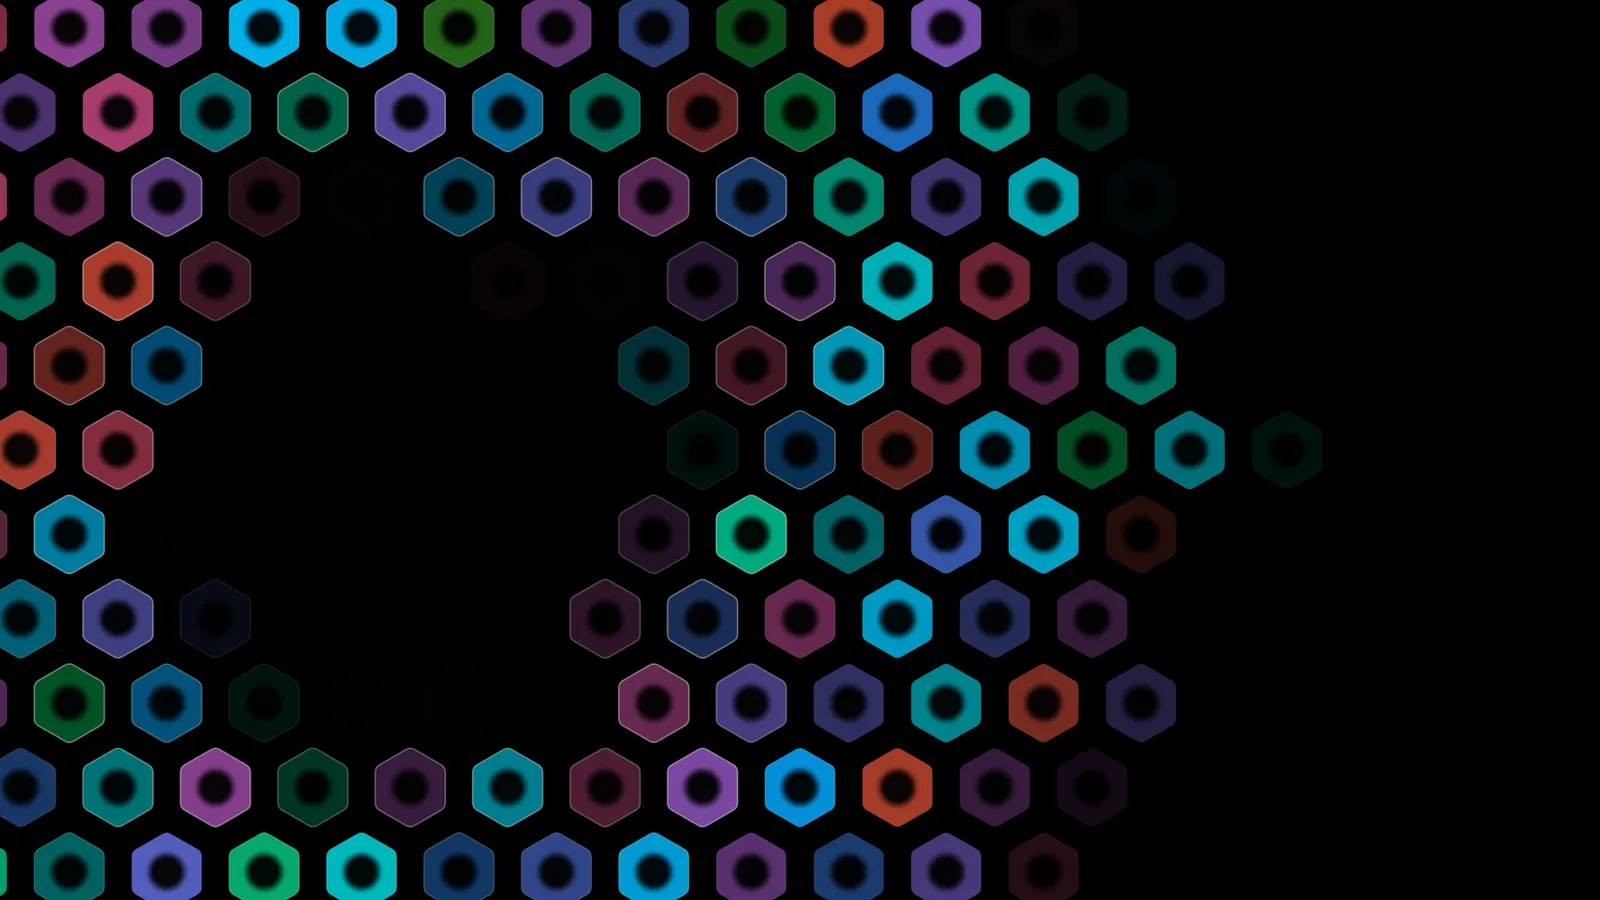
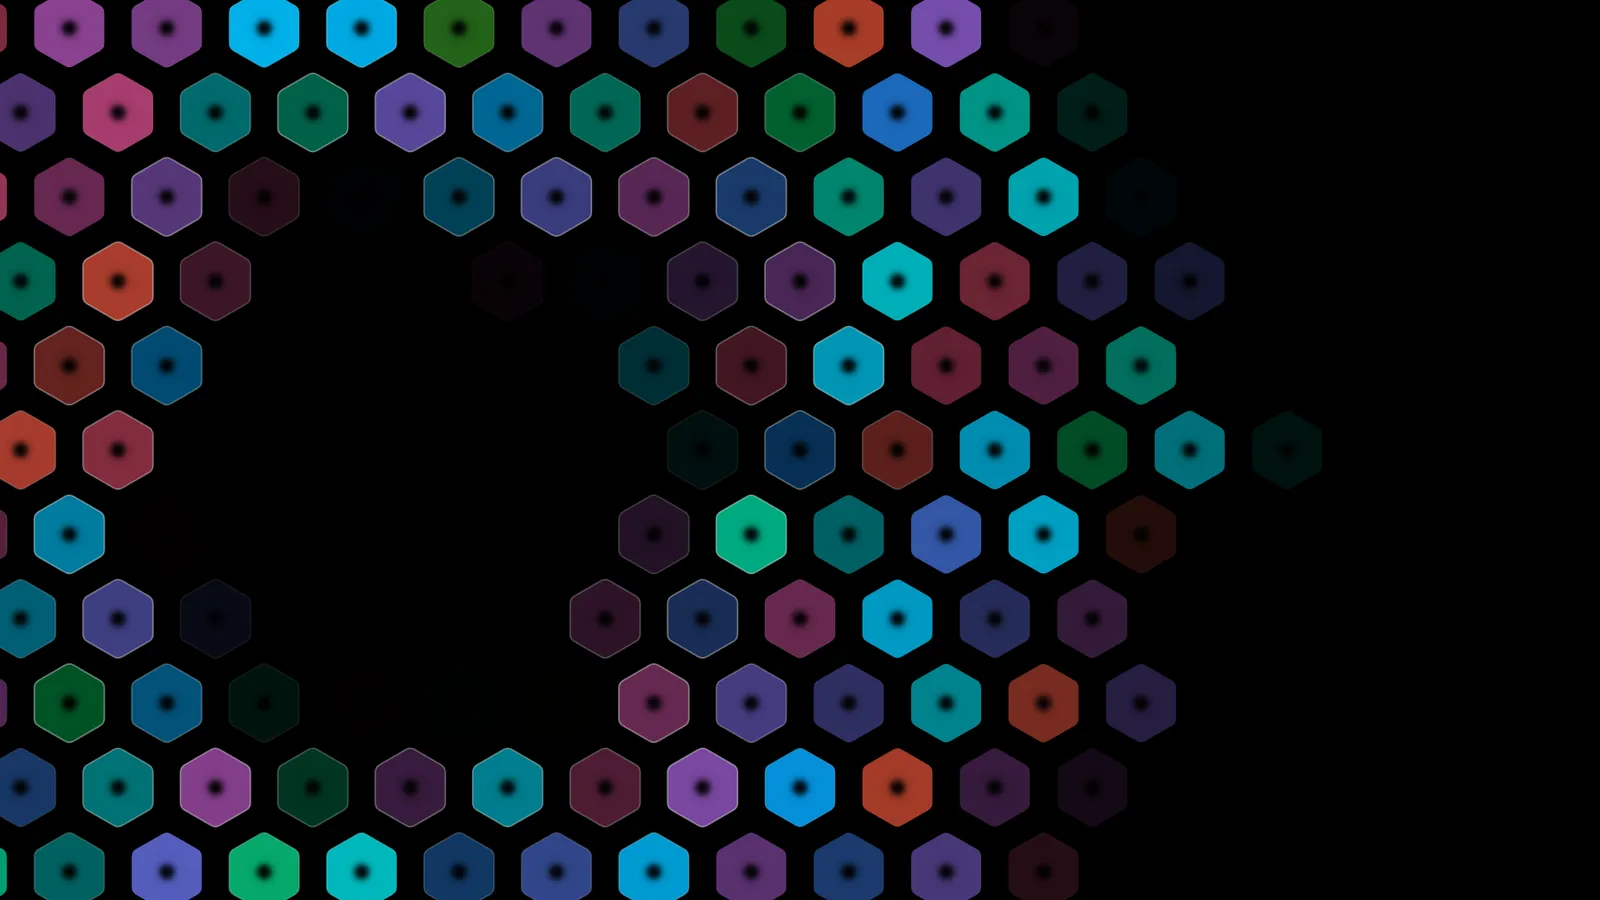
feat(hexgrid): smaller holes, with a size, width and S-curve shape
Andrei's third round: smaller centres in each hex, and a gradient that is
an S-curve rather than a linear ramp. hole is now the half-dark radius and
soft the width of the fall, so both slots are retired and re-appended;
curve chooses logistic, smoothstep or linear.

diff --git a/src/experiments/hexgrid/settings.ts b/src/experiments/hexgrid/settings.ts
@@ -23,6 +23,7 @@ export type Layout = "tiled" | "scattered" | "random"
 export type Pattern = "random" | "triad"
 export type Gamut = "lightness" | "chroma"
 export type FadeBy = "wave" | "together"
+export type Curve = "s" | "eased" | "linear"
 
 export type Settings = {
   /** Tiled: a dark centre in every seven, each ringed by six petals. Scattered: a few centres, spaced. */
@@ -51,10 +52,12 @@ export type Settings = {
   chroma: number
   /** How dark a hex's middle is against its edge. 0 is flat, 1 black. */
   core: number
-  /** Radius of the dark hole in each hex, as a share of the hex's inner radius. */
+  /** Radius at which each hex's dark hole is half dark, as a share of the hex's inner radius. */
   hole: number
-  /** How far the hole takes to give way to colour, as a share of the inner radius. */
+  /** Width of the hole's fall from dark to colour, as a share of the inner radius. */
   soft: number
+  /** Shape of that fall: an S-curve, smoothstep, or a straight ramp. */
+  curve: Curve
   /** How round the corners are: 0 sharp, 1 as round as the sides allow. */
   round: number
   /** OKLCH lightness of the dark centres. */
@@ -88,7 +91,7 @@ export type Settings = {
   seed: number
 }
 
-export type NumericKey = Exclude<keyof Settings, "layout" | "pattern" | "gamut" | "fadeBy">
+export type NumericKey = Exclude<keyof Settings, "layout" | "pattern" | "gamut" | "fadeBy" | "curve">
 
 export type Control = KitControl<string & keyof Settings>
 export type NumericControl = SliderControl<NumericKey>
@@ -97,6 +100,7 @@ export const LAYOUTS: Layout[] = ["tiled", "scattered", "random"]
 export const PATTERNS: Pattern[] = ["random", "triad"]
 export const GAMUTS: Gamut[] = ["lightness", "chroma"]
 export const FADE_BYS: FadeBy[] = ["wave", "together"]
+export const CURVES: Curve[] = ["s", "eased", "linear"]
 
 const SEED_BOUNDS = { min: 0, max: 999_999 }
 
@@ -288,13 +292,13 @@ export const CONTROLS: Control[] = [
   {
     kind: "slider",
     key: "hole",
-    label: "hole",
+    label: "hole size",
     group: "colour",
-    min: 0.05,
+    min: 0,
     max: 0.9,
     step: 0.01,
     format: unit,
-    hint: "How wide the dark middle of each hex is, as a share of the hex. Small is a pinhole the colour pours into; large leaves only a bright rim.",
+    hint: "How wide the dark middle of each hex is: the radius where it is half dark, as a share of the hex. Small is a pinhole the colour pours into; large leaves only a bright rim.",
     inert: (settings: Settings) => settings.core === 0,
   },
   {
@@ -302,17 +306,30 @@ export const CONTROLS: Control[] = [
     key: "soft",
     label: "softness",
     group: "colour",
-    min: 0.02,
-    max: 1,
+    min: 0.01,
+    max: 1.5,
     step: 0.01,
     format: unit,
-    hint: "How long the dark middle takes to give way to colour. Low is a sharp-edged hole; high is a long glow.",
+    hint: "How wide the fall from dark to colour is, as a share of the hex. Low is a sharp-edged hole; high is a long glow.",
+    inert: (settings: Settings) => settings.core === 0,
+  },
+  {
+    kind: "choice",
+    key: "curve",
+    label: "gradient",
+    group: "colour",
+    options: [
+      { value: "s", label: "s-curve" },
+      { value: "eased", label: "eased" },
+      { value: "linear", label: "linear" },
+    ],
+    hint: "The shape of the fall from dark to colour. S-curve holds the middle dark, drops quickly, and trails off into the colour. Eased is smoothstep: steeper through the middle than the S-curve and with no tail, so its edge reads crisper. Linear is a straight ramp, a plain radial gradient.",
     inert: (settings: Settings) => settings.core === 0,
   },
   {
     kind: "slider",
     key: "centre",
-    label: "centres",
+    label: "black hexes",
     group: "colour",
     min: 0,
     max: 0.5,
@@ -458,8 +475,9 @@ export const DEFAULT_SETTINGS: Settings = {
   lightness: 0.62,
   chroma: 0.2,
   core: 0.95,
-  hole: 0.35,
-  soft: 0.3,
+  hole: 0.2,
+  soft: 0.25,
+  curve: "s",
   round: 0.25,
   centre: 0.08,
   edge: 0.1,
@@ -492,8 +510,8 @@ export const TRACKS: Partial<Record<NumericKey, Track>> = {
   lightness: { min: 0.2, max: 0.95, step: 0.01 },
   chroma: { min: 0, max: 0.37, step: 0.005 },
   core: { min: 0, max: 1, step: 0.05 },
-  hole: { min: 0.05, max: 0.9, step: 0.01 },
-  soft: { min: 0.02, max: 1, step: 0.01 },
+  hole: { min: 0, max: 0.9, step: 0.01 },
+  soft: { min: 0.01, max: 1.5, step: 0.01 },
   round: { min: 0, max: 1, step: 0.05 },
   ragged: { min: 0, max: 1, step: 0.05 },
   trail: { min: 0, max: 5, step: 0.05 },
@@ -539,6 +557,7 @@ export function normalizeSettings(patch: Partial<Settings>, base: Settings = DEF
     pattern: oneOf(PATTERNS, merged.pattern, base.pattern),
     gamut: oneOf(GAMUTS, merged.gamut, base.gamut),
     fadeBy: oneOf(FADE_BYS, merged.fadeBy, base.fadeBy),
+    curve: oneOf(CURVES, merged.curve, base.curve),
   }
 
   for (const [key, bound] of Object.entries(BOUNDS) as [NumericKey, { min: number; max: number }][]) {
@@ -568,6 +587,7 @@ const GRID_KEYS = [
   "core",
   "hole",
   "soft",
+  "curve",
   "ragged",
   "seed",
 ] as const satisfies readonly (keyof Settings)[]
@@ -605,12 +625,17 @@ export const REGISTRY: readonly Slot[] = [
   { key: "density", kind: "num", grid: 0.1, origin: 0.1, bits: 8 },
   { key: "wander", kind: "num", grid: 1, origin: 0, bits: 8 },
   { key: "fadeBy", kind: "enum", options: ["wave", "together"] },
-  { key: "hole", kind: "num", grid: 0.01, origin: 0.05, bits: 7 },
-  { key: "soft", kind: "num", grid: 0.01, origin: 0.02, bits: 7 },
+  // Retired 2026-10-11: hole was a flat disc's radius and soft an eased edge
+  // beyond it; both now describe a curve centred on hole. Appended below.
+  { key: "hole", kind: "num", grid: 0.01, origin: 0.05, bits: 7, retired: true },
+  { key: "soft", kind: "num", grid: 0.01, origin: 0.02, bits: 7, retired: true },
   { key: "round", kind: "num", grid: 0.05, origin: 0, bits: 5 },
   { key: "ragged", kind: "num", grid: 0.05, origin: 0, bits: 5 },
   { key: "trail", kind: "num", grid: 0.05, origin: 0, bits: 7 },
   { key: "overlap", kind: "num", grid: 0.05, origin: 0, bits: 5 },
+  { key: "hole", kind: "num", grid: 0.01, origin: 0, bits: 7 },
+  { key: "soft", kind: "num", grid: 0.01, origin: 0.01, bits: 8 },
+  { key: "curve", kind: "enum", options: ["s", "eased", "linear"] },
 ]
 
 export function settingsToQuery(settings: Settings): URLSearchParams {

diff --git a/src/experiments/hexgrid/hexgrid.ts b/src/experiments/hexgrid/hexgrid.ts
@@ -393,6 +393,36 @@ export function intensity(
 /** Seconds into the bloom the colour reaches this hex. */
 const delayOf = (settings: Settings, hex: Hex) => hex.late * settings.stagger + hex.steps * settings.travel
 
+// ---------------------------------------------------------------- the hole
+
+/**
+ * How dark a hex is this far from its middle, as a share of its inner radius:
+ * `core` at the middle, falling to 0 through `hole`, the radius at which it is
+ * half as dark, over a transition `soft` wide.
+ *
+ * The shape of that fall is `curve`. Linear is a straight ramp — the plain
+ * radial gradient. Eased is smoothstep over the same width. S-curve is a
+ * logistic, which is what Andrei asked for: a dark centre that stays dark,
+ * a quick fall through the middle, and a long tail into the colour. Each is
+ * renormalised so the middle is exactly `core` and the far edge exactly 0.
+ */
+export function darkness(settings: Settings, at: number): number {
+  const { hole, soft, core, curve } = settings
+  const w = Math.max(0.005, soft)
+  let fall: (x: number) => number
+  if (curve === "linear") fall = (x) => Math.min(1, Math.max(0, (x - hole) / w + 0.5))
+  else if (curve === "eased") fall = (x) => smooth((x - hole) / w + 0.5)
+  else {
+    // A logistic whose 10%–90% span is `soft` wide: that span is 4.39 scales.
+    const scale = w / 4.39
+    fall = (x) => 1 / (1 + Math.exp(-(x - hole) / scale))
+  }
+  const a = fall(0)
+  const b = fall(1.16)
+  const f = b - a > 1e-6 ? (fall(at) - a) / (b - a) : at < hole ? 0 : 1
+  return core * (1 - Math.min(1, Math.max(0, f)))
+}
+
 // ---------------------------------------------------------------- scene
 
 type Pattern = ReturnType<typeof buildPattern> & {
@@ -457,11 +487,10 @@ export function createHexgrid(canvas: HTMLCanvasElement, initial: Settings) {
   const drawn = () => Math.max(0.5, settings.size - settings.gap / SQRT3)
 
   /**
-   * The dark middle, as one sprite laid over every hex: a hole of radius `hole`
-   * (a share of the hex's inner radius) held at `core` opacity, falling to clear
-   * over `soft` of that radius again, eased so the edge is quick rather than a
-   * long ramp. The sprite is round and may reach past the flat sides into the
-   * gap, which is black already, so it needs no clip.
+   * The dark middle, as one sprite laid over every hex, its opacity at each
+   * radius read off `darkness`. Sampled densely because the canvas only
+   * interpolates linearly between stops. The sprite is round and may reach past
+   * the flat sides into the gap, which is black already, so it needs no clip.
    */
   function buildVignette() {
     const r = drawn()
@@ -471,17 +500,14 @@ export function createHexgrid(canvas: HTMLCanvasElement, initial: Settings) {
     sprite.height = px
     const s = sprite.getContext("2d")!
     const g = s.createRadialGradient(px / 2, px / 2, 0, px / 2, px / 2, px / 2)
-    // Stops are shares of the corner radius; the inner radius is 0.866 of it.
+    // Stops are shares of the corner radius; `darkness` takes shares of the
+    // inner radius, which is 0.866 of it.
     const inner = SQRT3 / 2
-    const hole = Math.min(0.98, settings.hole * inner)
-    const edge = Math.min(1, hole + settings.soft * inner)
-    g.addColorStop(0, `rgba(0,0,0,${settings.core})`)
-    g.addColorStop(hole, `rgba(0,0,0,${settings.core})`)
-    for (let k = 1; k <= 6; k++) {
-      const f = k / 6
-      g.addColorStop(hole + (edge - hole) * f, `rgba(0,0,0,${settings.core * (1 - smooth(f))})`)
+    const STOPS = 48
+    for (let k = 0; k <= STOPS; k++) {
+      const at = k / STOPS
+      g.addColorStop(at, `rgba(0,0,0,${darkness(settings, at / inner)})`)
     }
-    if (edge < 1) g.addColorStop(1, "rgba(0,0,0,0)")
     s.fillStyle = g
     s.fillRect(0, 0, px, px)
     vignette = sprite
@@ -667,6 +693,22 @@ export function createHexgrid(canvas: HTMLCanvasElement, initial: Settings) {
         mean: round(mean(chromas), 3),
       },
       lightness: { asked: settings.lightness, min: round(Math.min(...lights)), max: round(Math.max(...lights)) },
+      // The hole's profile, measured off the function the sprite is drawn from:
+      // where it is half dark and how wide its 10%–90% fall is, in shares of the
+      // inner radius, and how dark it is at the middle and at the flat side.
+      hole: (() => {
+        const at = (x: number) => darkness(settings, x) / (settings.core || 1)
+        const cross = (level: number) => {
+          for (let x = 0; x <= 1.16; x += 0.001) if (at(x) <= level) return x
+          return 1.16
+        }
+        return {
+          half: round(cross(0.5), 3),
+          fall: round(cross(0.1) - cross(0.9), 3),
+          middle: round(darkness(settings, 0)),
+          side: round(darkness(settings, 1)),
+        }
+      })(),
       frame: { width, height },
       fps: Math.round(fps),
       running,

diff --git a/src/experiments/hexgrid/presets.ts b/src/experiments/hexgrid/presets.ts
@@ -25,8 +25,9 @@ export const PRESETS: { label: string; hint: string; settings: Settings }[] = [
       lightness: 0.52,
       chroma: 0.15,
       core: 0.95,
-      hole: 0.35,
-      soft: 0.3,
+      hole: 0.2,
+      soft: 0.25,
+      curve: "s",
       round: 0.25,
       centre: 0.04,
       edge: 0.44,
@@ -62,8 +63,9 @@ export const PRESETS: { label: string; hint: string; settings: Settings }[] = [
       lightness: 0.56,
       chroma: 0.22,
       core: 0.75,
-      hole: 0.35,
-      soft: 0.3,
+      hole: 0.2,
+      soft: 0.25,
+      curve: "s",
       round: 0.25,
       centre: 0.06,
       edge: 0.1,
@@ -99,8 +101,9 @@ export const PRESETS: { label: string; hint: string; settings: Settings }[] = [
       lightness: 0.6,
       chroma: 0.19,
       core: 0.75,
-      hole: 0.35,
-      soft: 0.3,
+      hole: 0.2,
+      soft: 0.25,
+      curve: "s",
       round: 0.25,
       centre: 0.05,
       edge: 0.08,
@@ -136,8 +139,9 @@ export const PRESETS: { label: string; hint: string; settings: Settings }[] = [
       lightness: 0.6,
       chroma: 0.2,
       core: 0.8,
-      hole: 0.35,
-      soft: 0.3,
+      hole: 0.2,
+      soft: 0.25,
+      curve: "s",
       round: 0.25,
       centre: 0.06,
       edge: 0.07,
@@ -173,8 +177,9 @@ export const PRESETS: { label: string; hint: string; settings: Settings }[] = [
       lightness: 0.52,
       chroma: 0.15,
       core: 0.85,
-      hole: 0.35,
-      soft: 0.3,
+      hole: 0.2,
+      soft: 0.25,
+      curve: "s",
       round: 0.25,
       centre: 0.04,
       edge: 0.12,

diff --git a/src/experiments/hexgrid/seed.md b/src/experiments/hexgrid/seed.md
@@ -48,6 +48,12 @@ describes the work.
 >
 > additionally if we could make the corners of the hexagons a little smoother
 
+## 2026-10-11 — third round
+
+> smaller centers of each hex. perhaps we need a slider for center size and
+> gradient function. i don't think it's a linear (circular) gradient, but is an
+> s-curve
+
 ## Questions I could not answer, and what I assumed
 
 _Mine, not his. Each is a control or a preset where it could be, so it can be
@@ -88,9 +94,12 @@ answered by dragging._
 - **Is a settled grid still?** "the whole piece is alive" may mean the loop
   alone, or movement inside the hold. **shimmer** adds a slow per-hex
   breathing; the primary has a little.
-- **Where the gradient's dark sits.** The middle of each hex is darkened by a
-  round gradient, so it reads as "a gradient circle inside a hexagon". The
-  falloff shape is fixed; only its depth (**core**) is a control.
+- **Where the gradient's dark sits, and its shape.** The middle of each hex is
+  darkened by a round gradient, so it reads as "a gradient circle inside a
+  hexagon". Since the third round its size (**hole size**, the half-dark
+  radius), its width (**softness**) and its shape (**gradient**: S-curve,
+  eased, linear) are all controls; the S-curve is the default because he
+  named it. "smaller centers" I took as the hole: 0.35 became 0.2.
 
 ## 2026-10-11 — first round
 

diff --git a/src/experiments/hexgrid/AGENTS.md b/src/experiments/hexgrid/AGENTS.md
@@ -20,8 +20,13 @@ traps.
   gives the six neighbours of a centre the six other residues, so every hex is
   a centre or a petal of exactly one. Change the 3 and that stops being true.
 - **Triad** is `(q - r) mod 3`, which no two neighbours share.
-- The dark middle is **one sprite** laid over every hex, not a gradient per hex:
-  flat at `core` out to `hole`, then eased to clear over `soft`. It is round and
+- The dark middle is **one sprite** laid over every hex, not a gradient per hex,
+  sampled at 48 stops from `darkness`: `core` at the middle, half dark at
+  `hole`, falling over `soft` in the shape `curve` names — a logistic by
+  default, at Andrei's third round ("not a linear gradient, but an s-curve").
+  Each curve is renormalised to exactly `core` at 0 and 0 at the corner, so the
+  S-curve's 10–90% fall comes out a little under `soft` (0.237 for 0.25);
+  `stats().hole` measures it. It is round and
   may reach past the flat sides into the gap, which is black anyway, so it needs
   no clip. A gap that is not black would show it.
 - **Patterns overlap.** A new one starts `next = period * (1 - overlap)` after
